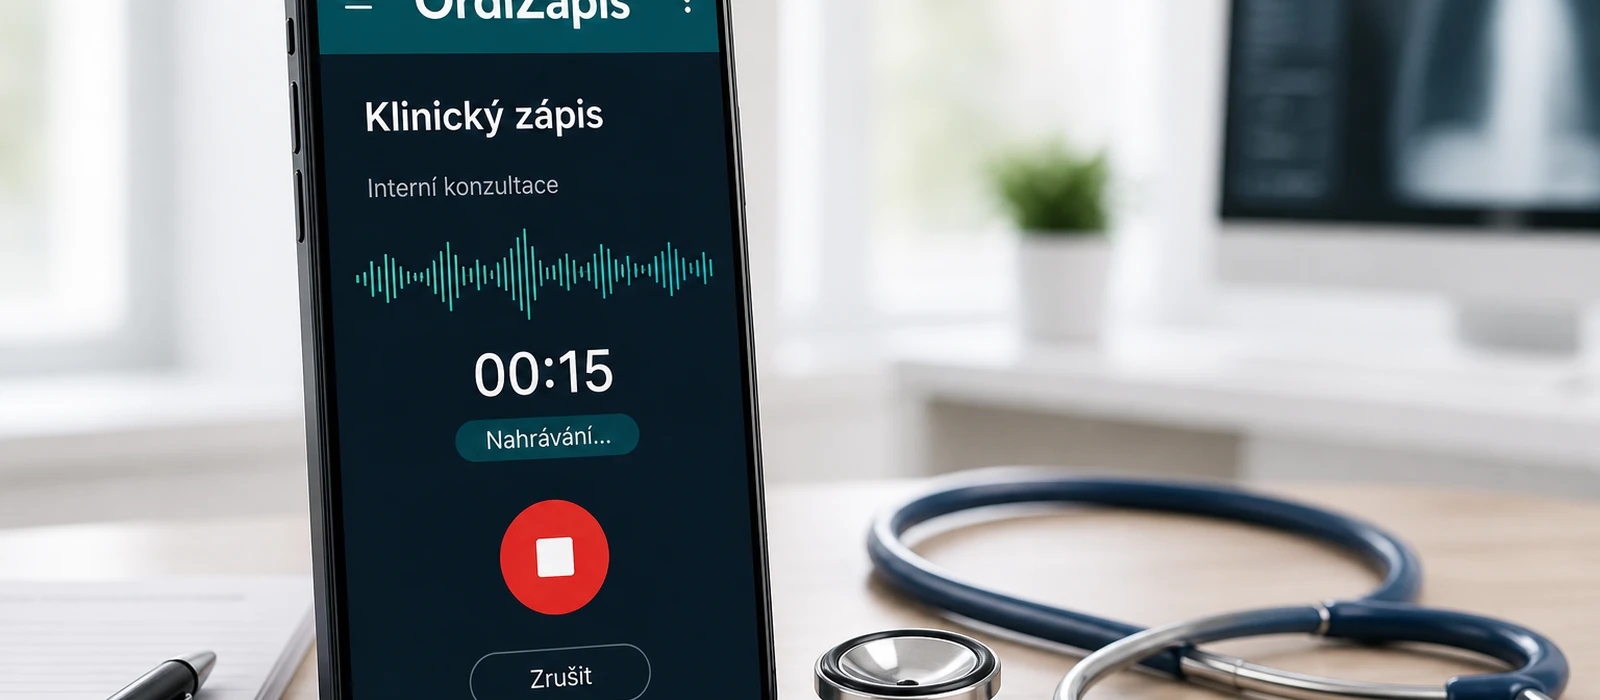
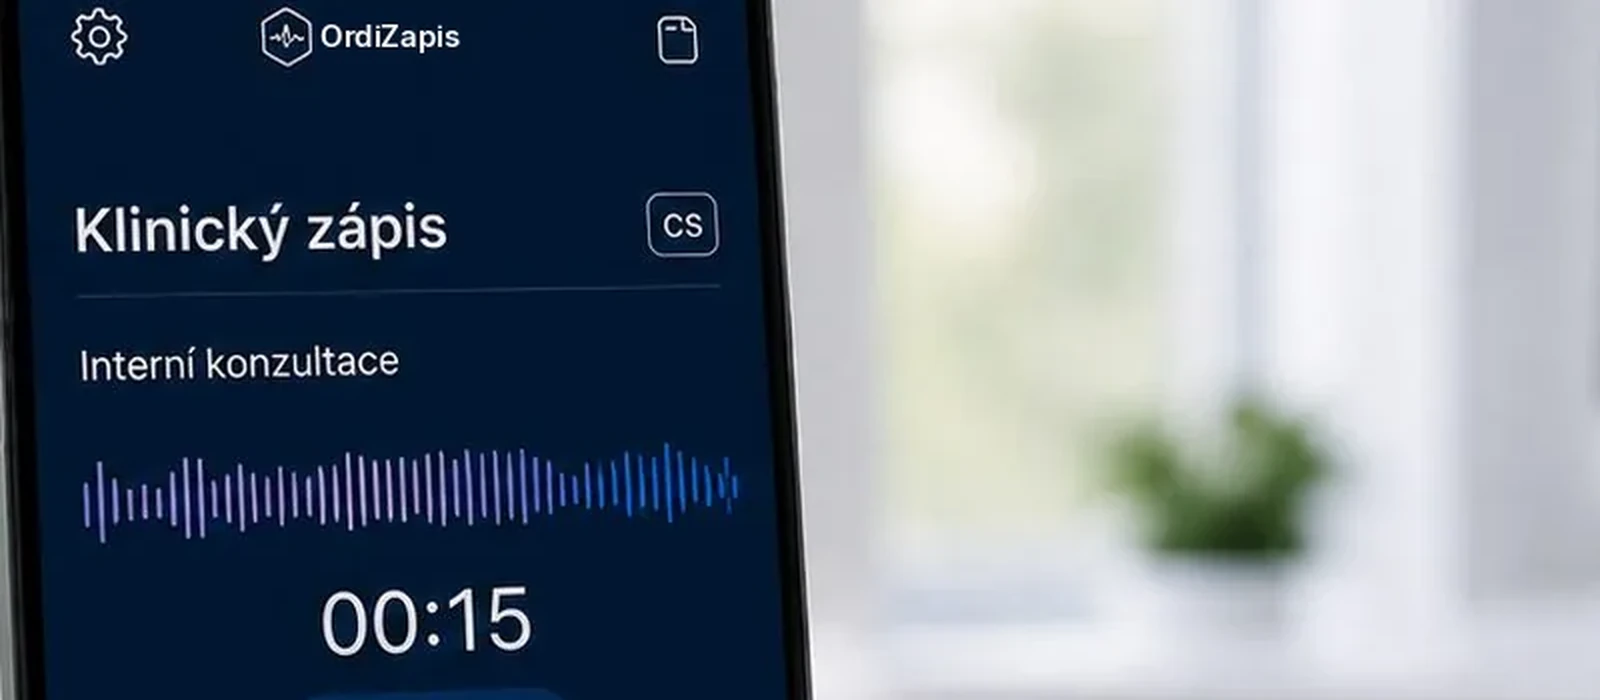
fix: place OrdiZapis on the phone display header in Účet
Paint OrdiZapis onto the original mockup header (not a regenerated scene),
crop to the phone screen so the word stays readable, and keep object-cover
anchored at the top so 21:9 banners cannot clip the header. Cache-bust to
ordizapis-phone-v3.

diff --git a/components/apps/app-brand-visual.tsx b/components/apps/app-brand-visual.tsx
@@ -15,7 +15,11 @@ type Props = {
  * (`APP_MARKETING_IMAGE` / `/assets/marketing/*`).
  */
 export function AppBrandVisual({ app, compact = false, className = "" }: Props) {
-  const src = `${APP_MARKETING_IMAGE[app.id]}?v=ordizapis-phone-v2`;
+  const src =
+    app.id === "ordizapis"
+      ? `${APP_MARKETING_IMAGE[app.id]}?v=ordizapis-phone-v3`
+      : APP_MARKETING_IMAGE[app.id];
+  const phoneHeader = app.id === "ordizapis";
   return (
     <figure className={`overflow-hidden bg-slate-200 ${className}`}>
       <div
@@ -30,7 +34,11 @@ export function AppBrandVisual({ app, compact = false, className = "" }: Props) 
         <img
           src={src}
           alt={`${app.shortName} — ${app.tagline}`}
-          className="h-full w-full object-cover object-center"
+          className={
+            phoneHeader
+              ? "h-full w-full object-cover object-[center_top]"
+              : "h-full w-full object-cover object-center"
+          }
           decoding="async"
         />
       </div>

diff --git a/components/lekari/dok-app/dok-app-shell.tsx b/components/lekari/dok-app/dok-app-shell.tsx
@@ -223,12 +223,14 @@ export function DokAppShell() {
       />
 
       <main className="min-h-0 flex-1 overflow-y-auto overscroll-contain bg-[#f4f9fc] pb-[calc(4.25rem+env(safe-area-inset-bottom))] md:pb-0">
-        <div className="mx-auto w-full max-w-3xl">
-          <AppBrandVisual
-            app={ORDIZAPIS_APP}
-            className="border-b border-[#cfe1f3] sm:mx-4 sm:mt-3 sm:rounded-2xl sm:border"
-          />
-        </div>
+        {loading || tab === "zapis" || tab === "ucet" ? (
+          <div className="mx-auto w-full max-w-3xl">
+            <AppBrandVisual
+              app={ORDIZAPIS_APP}
+              className="border-b border-[#cfe1f3] sm:mx-4 sm:mt-3 sm:rounded-2xl sm:border"
+            />
+          </div>
+        ) : null}
         {loading ? (
           <p className="px-4 py-16 text-center text-sm text-slate-500">Načítám aplikaci…</p>
         ) : !elig?.eligible && (tab === "zapis" || tab === "historie") ? (

diff --git a/lib/brand/marketing-visuals.ts b/lib/brand/marketing-visuals.ts
@@ -2,10 +2,10 @@ export const MARKETING_VISUALS = {
   aiAssistant: "/assets/ai/assistant-brunette.webp",
   medipacient: "/assets/marketing/medipacient.webp",
   mediprep: "/assets/marketing/mediprep.webp",
-  /** Cache-busted phone mockup with OrdiZapis on-screen branding */
-  ordizapis: "/assets/marketing/ordizapis-phone-v2.webp",
+  /** Phone mockup cropped to the display header — OrdiZapis on-screen */
+  ordizapis: "/assets/marketing/ordizapis-phone-v3.webp",
   /** @deprecated Use ordizapis */
-  mediktor: "/assets/marketing/ordizapis-phone-v2.webp",
+  mediktor: "/assets/marketing/ordizapis-phone-v3.webp",
 } as const;
 
 export const APP_MARKETING_IMAGE: Record<

diff --git a/scripts/apps/functional-check.ts b/scripts/apps/functional-check.ts
@@ -111,6 +111,9 @@ assert.deepEqual(
   "same seed yields same test"
 );
 
+file("public/assets/marketing/ordizapis-phone-v3.webp");
+file("public/assets/marketing/medipacient.webp");
+file("public/assets/marketing/mediprep.webp");
 file("app/(public)/aplikace/page.tsx");
 file("app/(pacient-app)/app/pacient/page.tsx");
 file("app/(prep-app)/app/priprava/page.tsx");

diff --git a/public/sw-dokumentace.js b/public/sw-dokumentace.js
@@ -1,5 +1,5 @@
 /* MedScope Dokumentace PWA service worker */
-const CACHE_NAME = 'msg-ordizapis-v3';
+const CACHE_NAME = 'msg-ordizapis-v4';
 const SHELL = [
   '/app/dokumentace',
   '/dokumentace-manifest.json',

diff --git a/AGENTS.md b/AGENTS.md
@@ -42,7 +42,7 @@ Cloudflare Workers via OpenNext; the source of truth for data is **Supabase** (P
 - Homepage (`/`) uses Czech **PortalHome** (search + services + magazine feed + phone mockups),
   not the old Unsplash `V271HomeHero`. App cards use `APP_MARKETING_IMAGE`.
 - In-app brand art uses the same files via `AppBrandVisual` /
-  `APP_MARKETING_IMAGE` (`/assets/marketing/medipacient.webp`, `mediprep.webp`, `ordizapis-phone-v2.webp`).
+  `APP_MARKETING_IMAGE` (`/assets/marketing/medipacient.webp`, `mediprep.webp`, `ordizapis-phone-v3.webp`).
 - Session/eligibility payloads include `access: AppAccessInfo` (accountLabel, planLabel,
   validityLabel from `vip_subscriptions.ends_at` when available).
 - **MeDiprep** `/app/priprava`: client fallback tests; header + status bar login; tab Testy builder.
